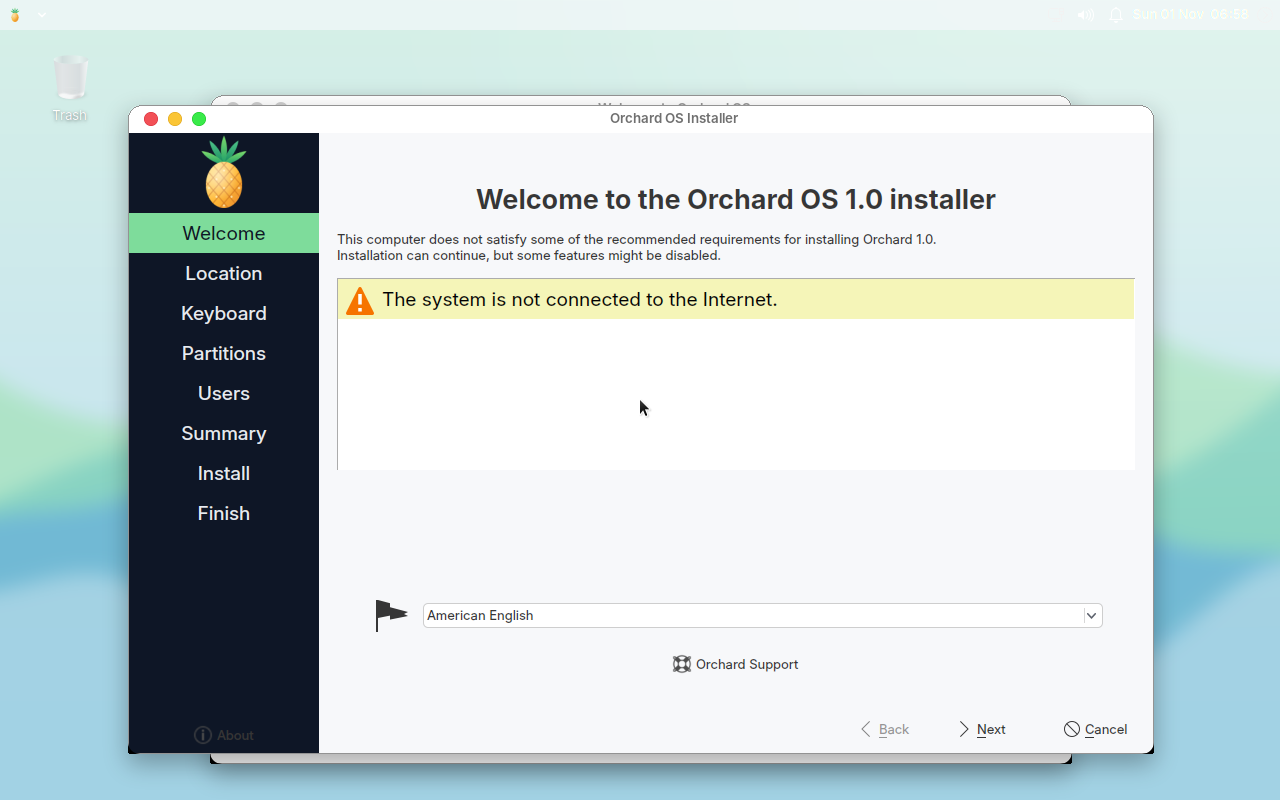
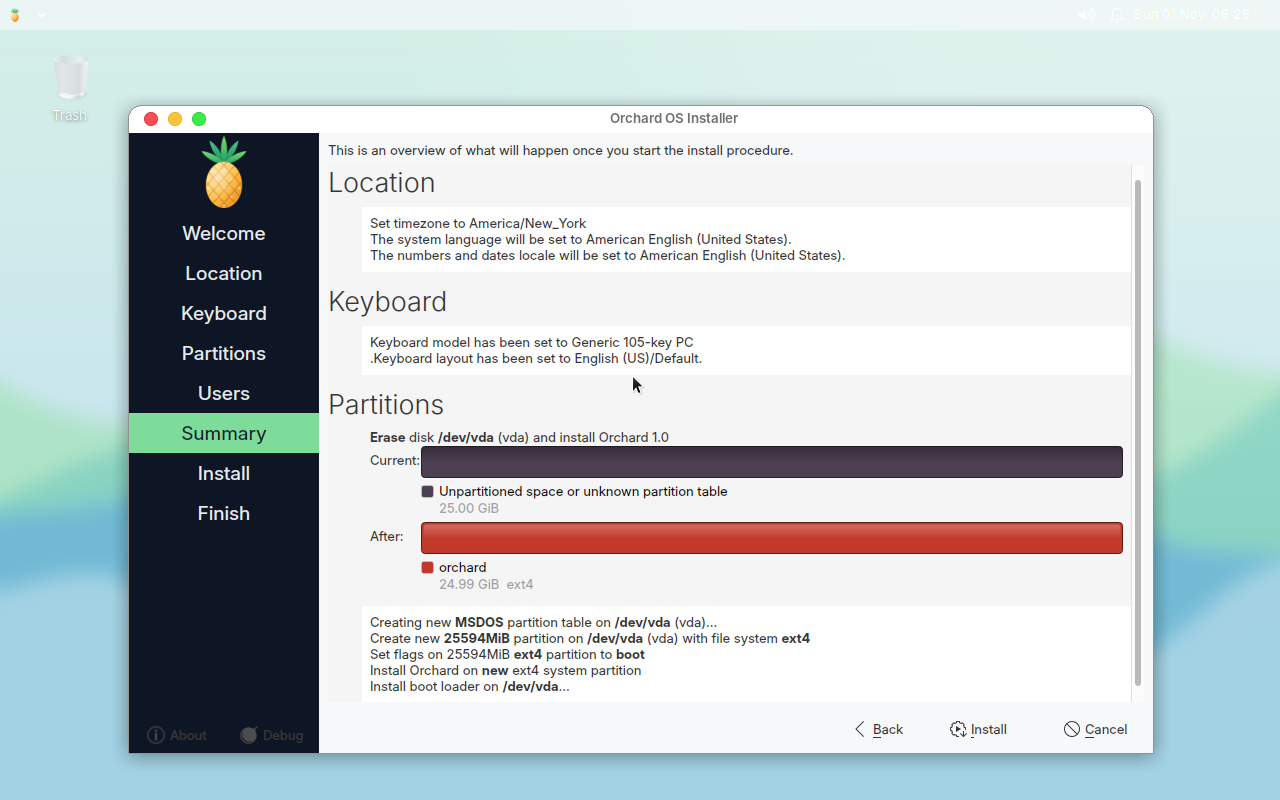
Orchard OS 1.1; README screenshots of the new design
Claude-Session: https://claude.ai/code/session_01NESZ4pqhUgtu1tyTiekVwF

diff --git a/README.md b/README.md
@@ -2,10 +2,10 @@
 
 A macOS-styled, AI-ready Linux desktop you can install on any PC. Built on Ubuntu 24.04 LTS.
 
-| Light | Dark |
+| Light: Files with the global menu bar | Dark: VS Code |
 |---|---|
-| ![Orchard OS light desktop](docs/screenshots/live-desktop.png) | ![Orchard OS dark desktop](docs/screenshots/live-desktop-dark.png) |
-| ![Installer](docs/screenshots/installer.png) | ![Login screen](docs/screenshots/login.png) |
+| ![Files in Light mode with app menus in the menu bar](docs/screenshots/light-files.png) | ![VS Code in Dark mode with the Dock](docs/screenshots/dark-vscode.png) |
+| ![Launchpad](docs/screenshots/launchpad.png) | ![Installer summary](docs/screenshots/installer.png) |
 
 Screenshots come from the automated QEMU test run.
 
@@ -62,10 +62,10 @@ Screenshots come from the automated QEMU test run.
 
 ## Install
 
-1. Download `orchard-os-1.0-amd64.iso` from [Releases](https://github.com/mithun789/custom-linux-os-build/releases), or build it (below).
+1. Download `orchard-os-1.1-amd64.iso` from [Releases](https://github.com/mithun789/custom-linux-os-build/releases), or build it (below).
 2. Write it to a USB stick (4 GB or larger) with balenaEtcher, Rufus (DD mode), or:
    ```bash
-   sudo dd if=orchard-os-1.0-amd64.iso of=/dev/sdX bs=4M status=progress conv=fsync
+   sudo dd if=orchard-os-1.1-amd64.iso of=/dev/sdX bs=4M status=progress conv=fsync
    ```
 3. Boot from the USB stick. Pick **Try or Install Orchard OS**.
 4. Click **Install Orchard OS** in the Dock or the Welcome window and follow the steps.

diff --git a/orchard-os/README.md b/orchard-os/README.md
@@ -46,7 +46,7 @@ sudo apt-get install -y qemu-system-x86 qemu-utils ovmf python3-pexpect
 ```
 
 ```bash
-sudo python3 test/qemu-test.py out/orchard-os-1.0-amd64.iso --out test-results
+sudo python3 test/qemu-test.py out/orchard-os-1.1-amd64.iso --out test-results
 ```
 
 The test boots the ISO on BIOS and UEFI, logs in to the live session over the serial console, checks that the desktop, dock and installer start, installs to a virtual disk with `orchard-install`, then boots the installed disk on BIOS and UEFI. Screenshots go to `test-results/`. It uses KVM when `/dev/kvm` exists and falls back to software emulation (about 4x slower).
